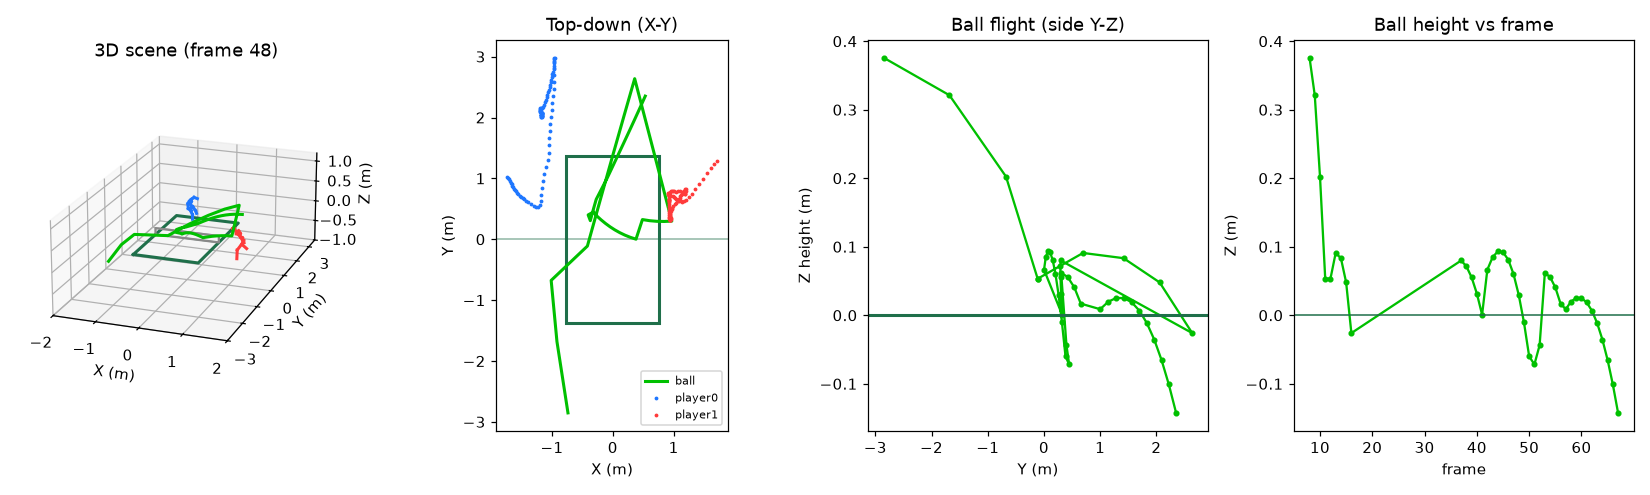
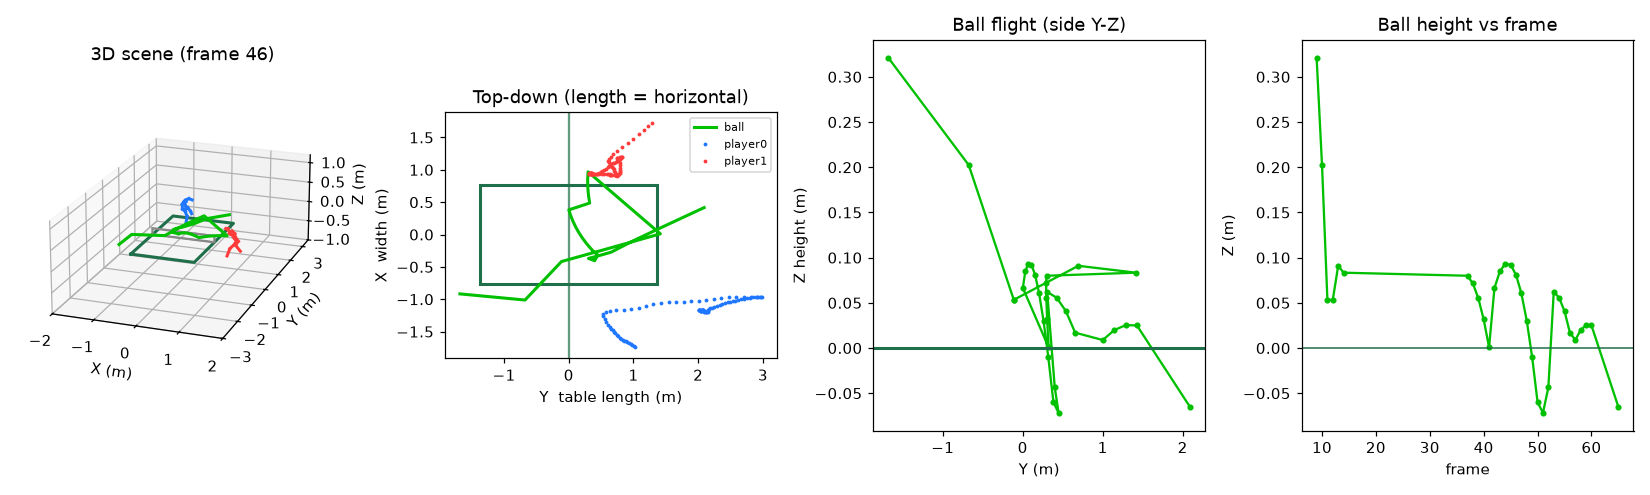
render/ball: reorient top-down (table length horizontal); geometry-aware ball filter (bounce must be on table)

diff --git a/scripts/render_rally.py b/scripts/render_rally.py
@@ -49,9 +49,17 @@ def _project(pts_world, rvec, tvec, K):
 
 
 def _plausible_ball(df: pd.DataFrame) -> pd.DataFrame:
-    """Drop physically-impossible reconstructed points using the table geometry:
-    ball must be on/above the surface and within a sane play volume."""
-    return df[(df.z > -0.15) & (df.z < 1.2) & (df.x.abs() < 1.5) & (df.y.abs() < 3.0)]
+    """Drop physically-impossible reconstructed points using the table geometry.
+
+    A near-surface point is a bounce and MUST lie on the table; higher points are
+    flight and may extend modestly beyond the ends (players hit from behind them).
+    The depth axis (Y) is the camera's line of sight and least-constrained, so this
+    is what removes the divergent 'bounces past the end' that stretch the plot.
+    """
+    on_surface = df.z.abs() < 0.06
+    keep = ((df.z > -0.12) & (df.z < 1.2) & (df.x.abs() < 1.1) & (df.y.abs() < 2.2)
+            & ~(on_surface & ((df.x.abs() > _W + 0.15) | (df.y.abs() > _L + 0.15))))
+    return df[keep]
 
 # H36M-17 skeleton (MotionBERT output order)
 H36M_EDGES = [(0, 1), (1, 2), (2, 3), (0, 4), (4, 5), (5, 6), (0, 7), (7, 8),
@@ -190,15 +198,16 @@ def render_summary(rally_dir: Path, out: Path) -> None:
     _draw_table(ax); _draw_skel(ax, p0[mid], "#1f77ff"); _draw_skel(ax, p1[mid], "#ff3b3b")
     ax.plot(bt[:, 0], bt[:, 1], bt[:, 2], color="#00c000", lw=2)
     _setup(ax, bt); ax.view_init(elev=20, azim=-70); ax.set_title("3D scene (frame %d)" % mid)
-    # top-down
+    # top-down: table LENGTH horizontal (conventional), net = vertical line at Y=0
     ax2 = fig.add_subplot(142)
     W, L = config.TABLE_WIDTH / 2, config.TABLE_LENGTH / 2
-    ax2.add_patch(plt.Rectangle((-W, -L), 2 * W, 2 * L, fill=False, ec="#1f6f4a", lw=2))
-    ax2.axhline(0, color="#1f6f4a", lw=1, alpha=0.5)
-    ax2.plot(bt[:, 0], bt[:, 1], color="#00c000", lw=2, label="ball")
-    ax2.plot(p0[:, 0, 0], p0[:, 0, 1], ".", color="#1f77ff", ms=3, label="player0")
-    ax2.plot(p1[:, 0, 0], p1[:, 0, 1], ".", color="#ff3b3b", ms=3, label="player1")
-    ax2.set_title("Top-down (X-Y)"); ax2.set_xlabel("X (m)"); ax2.set_ylabel("Y (m)")
+    ax2.add_patch(plt.Rectangle((-L, -W), 2 * L, 2 * W, fill=False, ec="#1f6f4a", lw=2))
+    ax2.axvline(0, color="#1f6f4a", lw=1.5, alpha=0.7)  # net
+    ax2.plot(bt[:, 1], bt[:, 0], color="#00c000", lw=2, label="ball")
+    ax2.plot(p0[:, 0, 1], p0[:, 0, 0], ".", color="#1f77ff", ms=3, label="player0")
+    ax2.plot(p1[:, 0, 1], p1[:, 0, 0], ".", color="#ff3b3b", ms=3, label="player1")
+    ax2.set_title("Top-down (length = horizontal)")
+    ax2.set_xlabel("Y  table length (m)"); ax2.set_ylabel("X  width (m)")
     ax2.set_aspect("equal"); ax2.legend(fontsize=7)
     # side (Y-Z): ball flight + bounce
     ax3 = fig.add_subplot(143)

diff --git a/pipeline/ball.py b/pipeline/ball.py
@@ -100,9 +100,12 @@ def _filter_ball_3d(csv_path: Path, cfg: config.PipelineConfig) -> None:
         df = pd.read_csv(csv_path)
     except Exception:
         return
-    half_w = config.TABLE_WIDTH / 2 + 1.0     # allow reaching wide of the table
-    half_l = config.TABLE_LENGTH / 2 + 1.6    # allow serving behind the end lines
-    keep = (df["z"] > -0.15) & (df["z"] < 1.5) & (df["x"].abs() < half_w) & (df["y"].abs() < half_l)
+    hw, hl = config.TABLE_WIDTH / 2, config.TABLE_LENGTH / 2
+    on_surface = df["z"].abs() < 0.06
+    keep = ((df["z"] > -0.12) & (df["z"] < 1.5)
+            & (df["x"].abs() < hw + 0.9) & (df["y"].abs() < hl + 0.8)
+            # a bounce (near surface) must actually be on the table
+            & ~(on_surface & ((df["x"].abs() > hw + 0.15) | (df["y"].abs() > hl + 0.15))))
     dropped = int((~keep).sum())
     if dropped:
         df[keep].to_csv(csv_path, index=False)